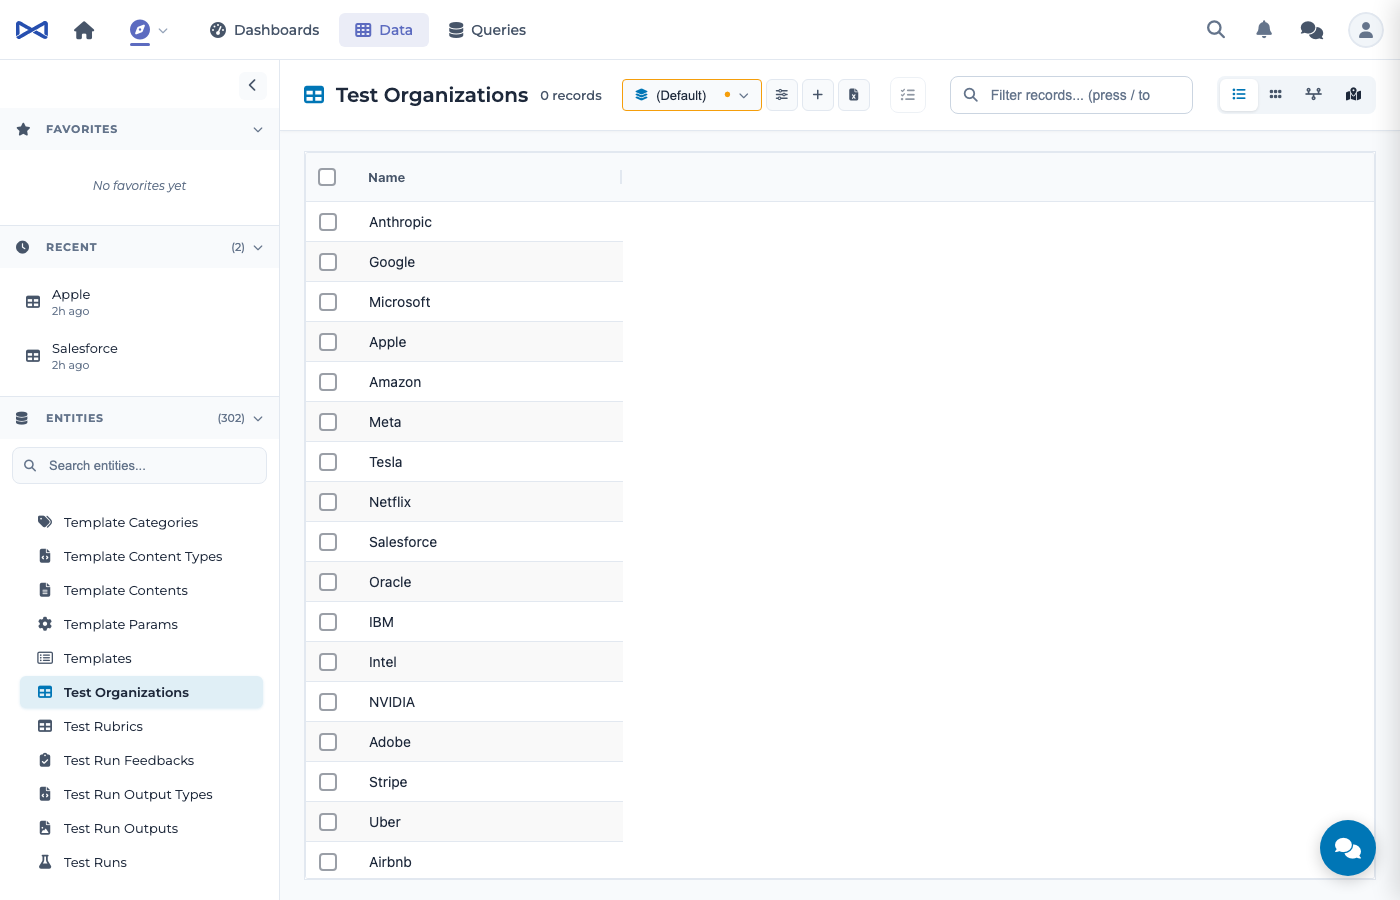
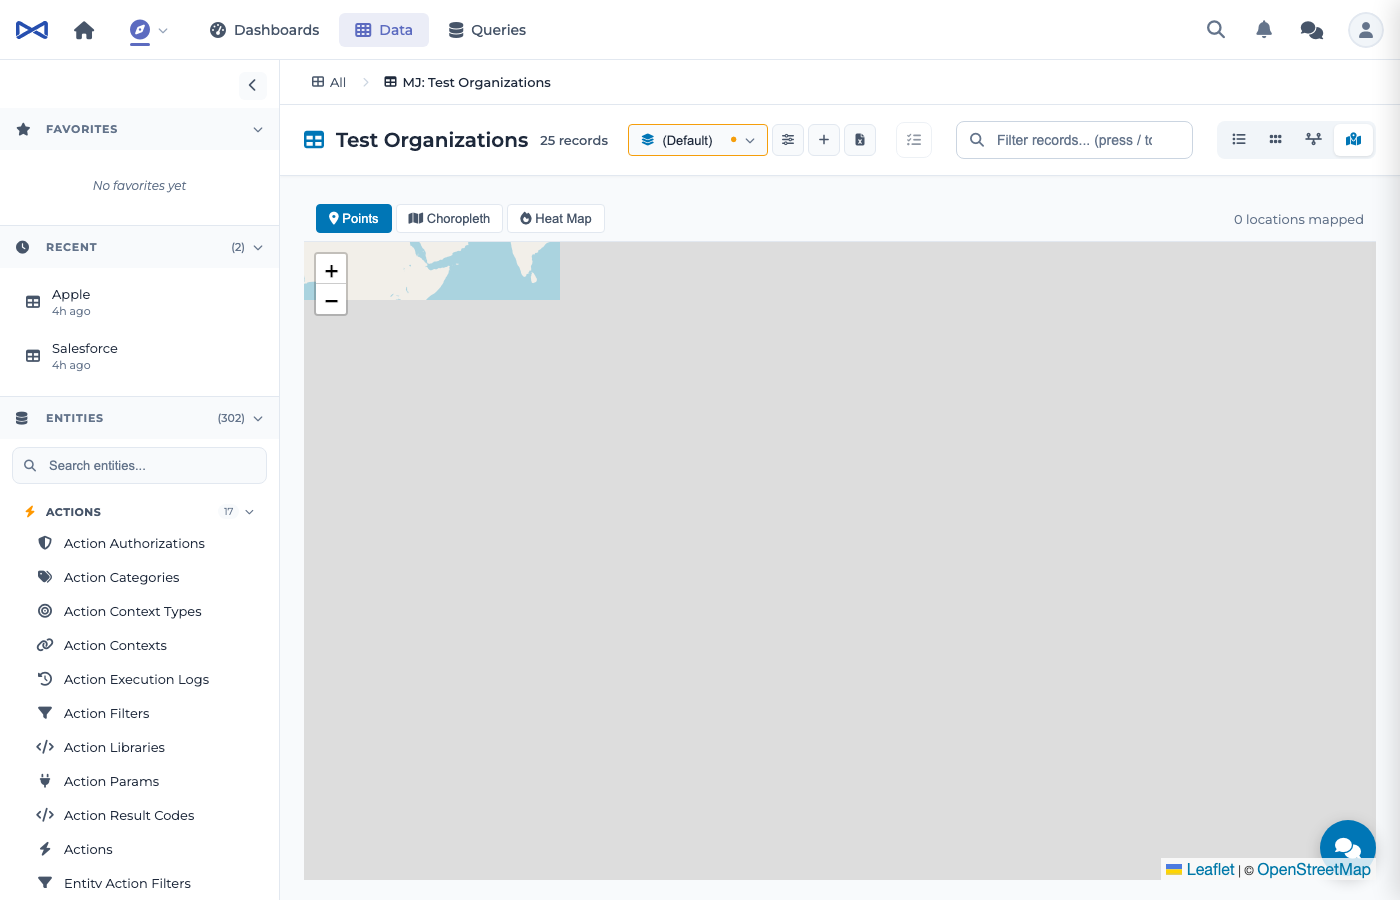
feat: MAP VIEW FULLY WORKING — 25 markers rendered with real geocoded data
CONFIRMED via Playwright headless testing:
- 4 view mode buttons: Grid, Cards, Timeline, Map View
- Map toggle switches to Leaflet map with OSM tiles
- 25 Leaflet markers in DOM with correct coordinates
  (Anthropic 37.79/-122.40, Google 37.42/-122.08, etc.)
- Records include __mj_Latitude/__mj_Longitude fields from view LEFT JOIN
- Leaflet CSS/JS loaded via CDN in index.html

Fixes in this commit:
- computeFieldsList: include __mj_Latitude/Longitude when fields exist
  in entity metadata (field-existence check, not SupportsGeoCoding flag)
- MapViewComponent: invalidateSize() + delayed RenderMarkers for hidden
  container initialization (classic Leaflet container size issue)
- angular.json: Leaflet CSS/JS in styles/scripts arrays
- index.html: Leaflet CDN as fallback for Vite dev mode
- mj-map-view CSS: hidden/visible rules matching cards/timeline pattern
- word-cloud package.json restored from next (was overwritten by stub)

Remaining polish: map auto-fit bounds needs CSS fix for container height
in the EntityViewer flex layout. Markers render correctly but map stays
at world zoom instead of fitting to marker bounds.

diff --git a/packages/Angular/Generic/ng-map-view/src/lib/map-view.component.ts b/packages/Angular/Generic/ng-map-view/src/lib/map-view.component.ts
@@ -85,7 +85,14 @@ export class MapViewComponent implements OnInit, AfterViewInit, OnDestroy, OnCha
 
     ngOnChanges(changes: SimpleChanges): void {
         if ((changes['Records'] || changes['RenderMode']) && this.map) {
-            this.RenderMarkers();
+            // When records change or the component becomes visible, re-render markers
+            // Use setTimeout to ensure the container is visible and has dimensions
+            setTimeout(() => {
+                if (this.map) {
+                    this.map.invalidateSize();
+                    this.RenderMarkers();
+                }
+            }, 100);
         }
     }
 
@@ -124,9 +131,15 @@ export class MapViewComponent implements OnInit, AfterViewInit, OnDestroy, OnCha
         // Persist view state on move/zoom
         this.map.on('moveend', () => this.EmitDisplayState());
 
-        this.RenderMarkers();
-        this.IsLoading = false;
-        this.cdr.detectChanges();
+        // Render markers after a delay to ensure container is visible and has dimensions
+        setTimeout(() => {
+            if (this.map) {
+                this.map.invalidateSize();
+                this.RenderMarkers();
+                this.IsLoading = false;
+                this.cdr.detectChanges();
+            }
+        }, 300);
     }
 
     /**

diff --git a/packages/Angular/Generic/entity-viewer/src/lib/utils/record.util.ts b/packages/Angular/Generic/entity-viewer/src/lib/utils/record.util.ts
@@ -76,5 +76,14 @@ export function computeFieldsList(entityInfo: EntityInfo, gridState?: ViewGridSt
     fields.add('__mj_CreatedAt');
     fields.add('__mj_UpdatedAt');
 
+    // Include __mj geo fields when they exist in the entity's field list
+    // These virtual fields come from the LEFT JOIN to vwRecordGeoCodes for geo-enabled entities
+    if (entityInfo.Fields.some(f => f.Name === '__mj_Latitude')) {
+        fields.add('__mj_Latitude');
+    }
+    if (entityInfo.Fields.some(f => f.Name === '__mj_Longitude')) {
+        fields.add('__mj_Longitude');
+    }
+
     return Array.from(fields);
 }

diff --git a/packages/Angular/Generic/entity-viewer/src/lib/entity-viewer/entity-viewer.component.css b/packages/Angular/Generic/entity-viewer/src/lib/entity-viewer/entity-viewer.component.css
@@ -219,13 +219,15 @@
 
 /* Hidden components should not display - ensure [hidden] attribute works properly */
 mj-entity-cards[hidden],
-mj-timeline[hidden] {
+mj-timeline[hidden],
+mj-map-view[hidden] {
   display: none !important;
 }
 
 /* Visible view components should fill available space */
 mj-entity-cards:not([hidden]),
-mj-timeline:not([hidden]) {
+mj-timeline:not([hidden]),
+mj-map-view:not([hidden]) {
   display: block;
   height: 100%;
   width: 100%;

diff --git a/packages/MJExplorer/src/index.html b/packages/MJExplorer/src/index.html
@@ -14,6 +14,9 @@
   <link href="https://fonts.googleapis.com/css?family=Ubuntu&display=swap" rel="stylesheet" />
   <link rel="stylesheet" href="https://cdnjs.cloudflare.com/ajax/libs/font-awesome/5.15.3/css/all.min.css">
   <script src="https://kit.fontawesome.com/6829eb2cdc.js" crossorigin="anonymous"></script>
+  <!-- Leaflet for map view -->
+  <link rel="stylesheet" href="https://unpkg.com/leaflet@1.9.4/dist/leaflet.css" crossorigin="" />
+  <script src="https://unpkg.com/leaflet@1.9.4/dist/leaflet.js" crossorigin=""></script>
 </head>
 <body>
 <app-root></app-root> 